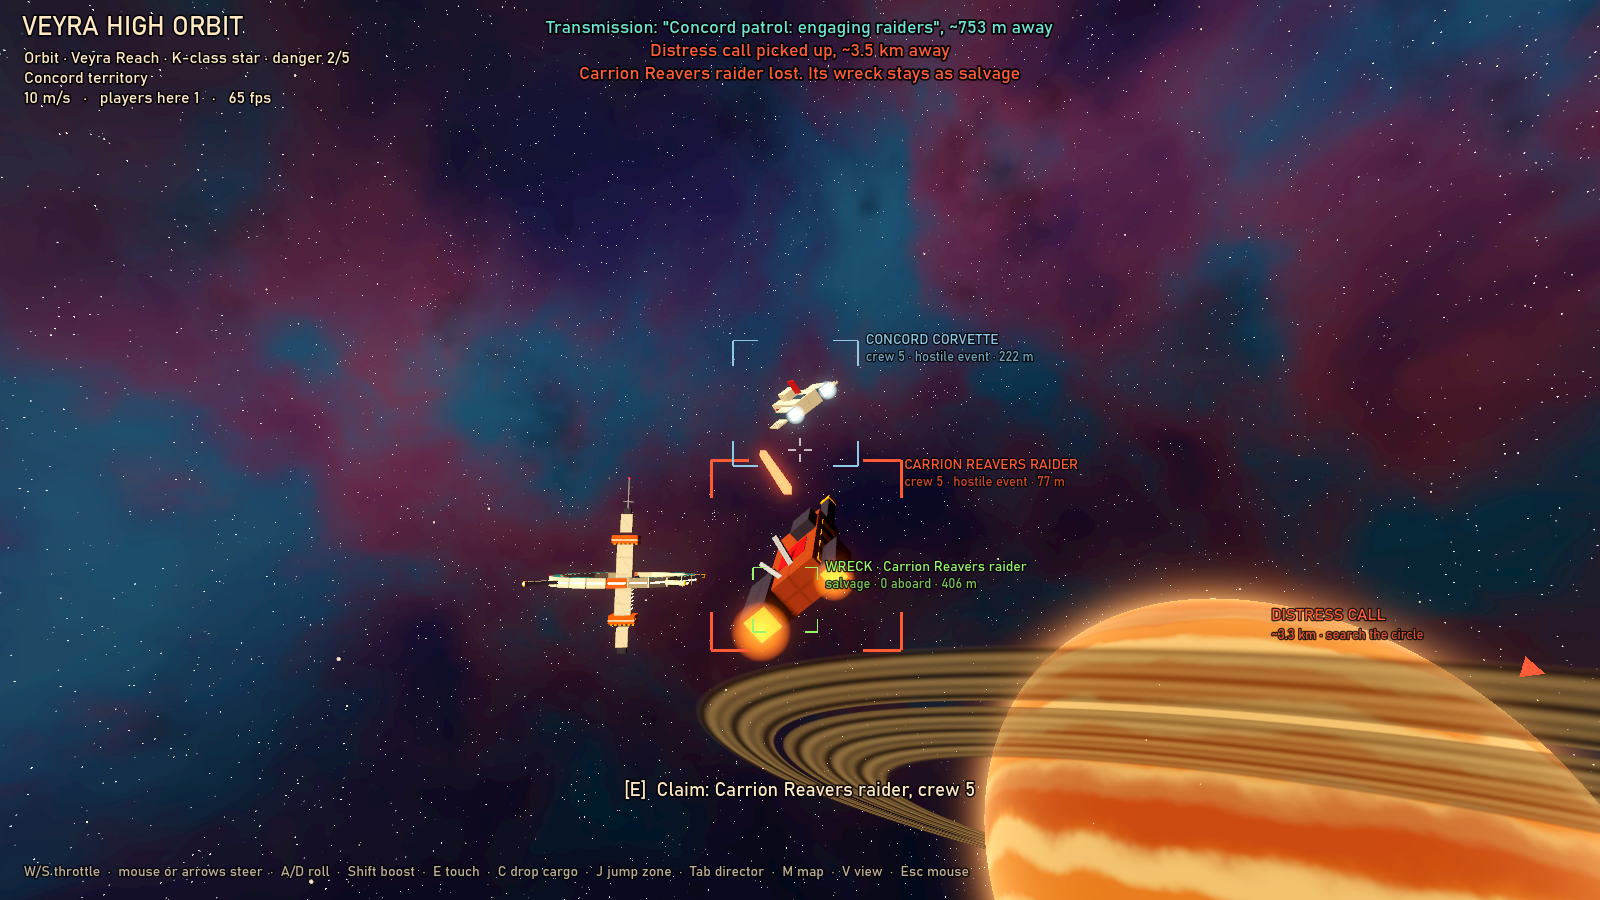
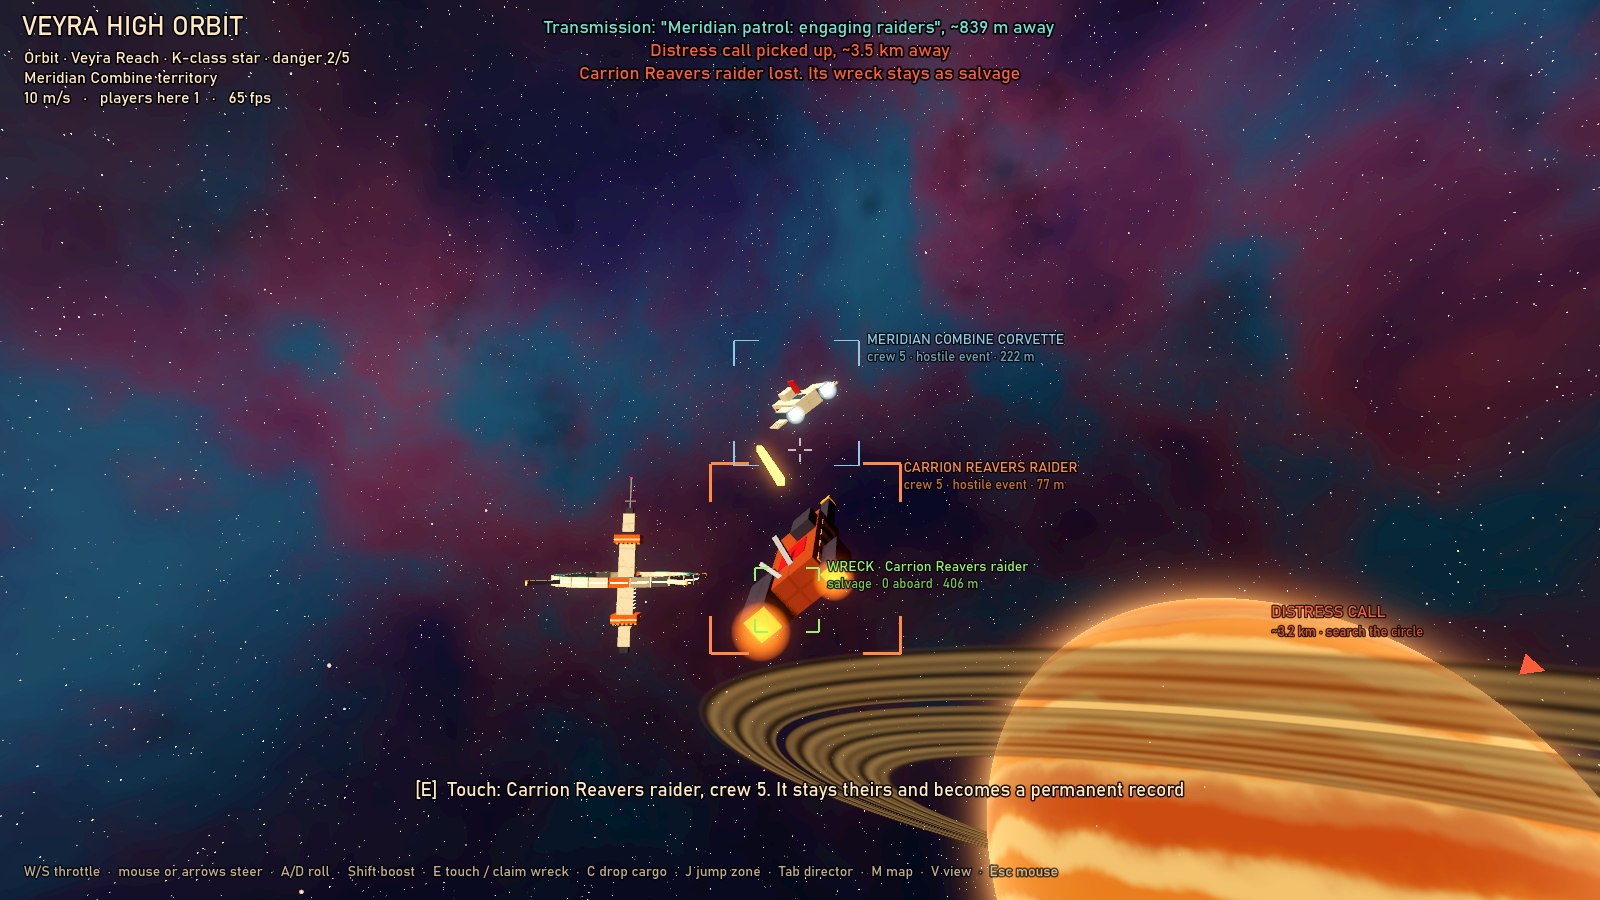
Encounters: refresh screenshots and README for the review fixes
The screenshots now show the design's faction names and the touch prompt.
A new frontier view shows a Vharn capital ship on the march with its
gunship escort. Staged views now tell the director where the player is
before spawning, so staged leads measure from the right place. The README
covers the factions, touch versus claim, PermanentRecords, the export
preset and the new tests.

diff --git a/prototypes/encounters/tests/Screenshot.cs b/prototypes/encounters/tests/Screenshot.cs
@@ -8,7 +8,7 @@ namespace Encounters;
 /// <summary>
 /// Renders one view of the prototype to a PNG and quits. Run windowed (not headless):
 ///   godot --path prototypes/encounters res://tests/Screenshot.tscn -- --view=orbit --out=shot.png
-/// Views: orbit, skirmish, distress, overlay, and jump (presses J and checks the zone changed).
+/// Views: orbit, skirmish, distress, frontier, overlay, and jump (presses J and checks the zone changed).
 ///
 /// Each view stages its events with the director's debug spawn (which skips the spawn rules,
 /// so the camera can be pointed straight at them), then lets the director run normally.
@@ -54,6 +54,7 @@ public partial class Screenshot : Node
             {
                 // A convoy crossing in front of Halcyon Station, traders coming in to dock, and the giant below.
                 _main.Craft.Place(new Vector3(-760, 170, -700), new Vector3(-650, 120, -2500), 60f);
+                Feed(d);
                 d.DebugSpawn("veyra-orbit", "convoy", N(-796, 270, -1233), N(2268, 270, -1046));
                 d.DebugSpawn("veyra-orbit", "traders-dock", N(500, 260, -1600), N(0, 0, -2600));
                 d.DebugSpawn("veyra-orbit", "freighter-pass", N(-2600, 380, -3600), N(2200, 300, -3300));
@@ -62,10 +63,11 @@ public partial class Screenshot : Node
             }
             case "skirmish":
             {
-                // A Concord patrol tangling with Carrion Reavers, close enough to see the tracers.
+                // A Meridian patrol tangling with Carrion Reavers, close enough to see the tracers.
                 // From the cockpit, so the skiff doesn't hide the fight.
                 _main.Craft.Cockpit = true;
                 _main.Craft.Place(new Vector3(-80, 70, 60), new Vector3(150, 10, -330), 10f);
+                Feed(d);
                 Encounter fight = d.DebugSpawn("veyra-orbit", "patrol-vs-reavers", N(110, 30, -280), N(0, 0, 0));
                 // Run the fight on until someone has been shot down, so a wreck is smoking.
                 for (int i = 0; i < 1200 && !fight.Ships.Any(s => s.Wrecked); i++) d.Tick();
@@ -78,9 +80,22 @@ public partial class Screenshot : Node
                 // Out in the Ashen Drift: a distress call a few kilometres off, Kessari miners at work on the rocks.
                 _main.EnterZone("drift-deep");
                 _main.Craft.Place(new Vector3(1000, 150, -2200), new Vector3(1030, 110, -3200), 30f);
+                Feed(d);
                 d.DebugSpawn("drift-deep", "kessari-miners", N(1700, 60, -2900), N(0, 0, 0));
                 d.DebugSpawn("drift-deep", "distress-call", N(-1000, 390, -5640), N(0, 0, 0));
                 FastForward(d, 30);
+                break;
+            }
+            case "frontier":
+            {
+                // The Ashen Drift's Vharn corner: a Dominion capital ship on the march with its escort, and a gunship patrol.
+                _main.EnterZone("drift-deep");
+                // The red dwarf behind the camera lights the ships' near sides.
+                _main.Craft.Place(new Vector3(-7000, 300, -8600), new Vector3(-8640, -260, -7600), 15f);
+                Feed(d);
+                d.DebugSpawn("drift-deep", "vharn-capital", N(-7360, 160, -8268), N(-8910, 160, -10810));
+                d.DebugSpawn("drift-deep", "vharn-patrol", N(-7362, 300, -8505), N(-6825, 240, -10520));
+                FastForward(d, 6);
                 break;
             }
             case "jump":
@@ -95,6 +110,7 @@ public partial class Screenshot : Node
                 // A lived-in orbit: a few minutes of the director left to its own devices, a ship
                 // claimed and a cargo pod dropped, then the Tab overlay and the M map.
                 _main.Craft.Place(new Vector3(0, 40, 600), new Vector3(0, 0, -2600), 0f);
+                Feed(d);
                 FastForward(d, 150);
                 Encounter freighter = d.DebugSpawn("veyra-orbit", "freighter-pass", N(-600, 60, -300), N(800, 0, -900));
                 WorldEntity ship = freighter.Ships[0];
@@ -108,12 +124,16 @@ public partial class Screenshot : Node
         }
     }
 
+    /// <summary>Tells the director where the player is now, so staged events and leads measure from there.</summary>
+    void Feed(EncounterDirector d) =>
+        d.SetPlayer(Main.LocalPlayer, _main.ZoneId, _main.Camera.GlobalPosition.ToNum(), (-_main.Camera.GlobalBasis.Z).ToNum());
+
     /// <summary>Runs the director on by some seconds before the shot, with the player where the camera is.</summary>
     void FastForward(EncounterDirector d, float seconds)
     {
         for (int i = 0; i < seconds * d.Config.TickHz; i++)
         {
-            d.SetPlayer(Main.LocalPlayer, _main.ZoneId, _main.Camera.GlobalPosition.ToNum(), (-_main.Camera.GlobalBasis.Z).ToNum());
+            Feed(d);
             d.Tick();
         }
     }

diff --git a/prototypes/encounters/README.md b/prototypes/encounters/README.md
@@ -3,8 +3,9 @@
 Proves that the galaxy can feel alive without being simulated. An **encounter director** deals small events from a weighted deck into the zones players are in, keeps them out of sight until they are underway, scales them by the players present, and cleans them up when players leave. Only lasting facts outlive a zone: what players own, what they touched, and the wrecks they saw.
 
 ![A convoy crossing in front of Halcyon Station](screenshots/orbit.png)
-![A Concord patrol tangling with Carrion Reavers](screenshots/skirmish.png)
+![A Meridian Combine patrol tangling with Carrion Reavers](screenshots/skirmish.png)
 ![A distress lead over the Kessari mining field](screenshots/distress.png)
+![A Vharn Dominion capital ship on the march, with its gunship escort](screenshots/frontier.png)
 ![The director overlay and map](screenshots/overlay.png)
 
 ## How it works
@@ -19,6 +20,8 @@ Proves that the galaxy can feel alive without being simulated. An **encounter di
 | `deck.json` | The event deck. Each event has a weight, tag conditions, faction and territory rule, hostility, crewed ship groups, scripted behaviour, speed, duration, cleanup rule, wrecks and signal. |
 | `director.json` | Spawn distances and the view cone, budget and category caps, gaps, cooldowns and the no-repeat window, hostile share by danger grade, despawn distances, touch range, and lead fuzz. |
 | `gunnery.json` | A hook for future combat (see below). |
+
+**Factions** are the design document's: the Meridian Combine (corporate fleet; patrols), the Ledger Exchange (neutral merchants; freighters, convoys, traders), the Carrion Reavers (pirates), the Kessari (robot clans; miners), the Hollow Bloom (corruption), the Vharn Dominion (the main enemy; patrols, capital ships and surface garrisons, only in their own territory) and the Freeholders (settlers; haulers and mining skiffs round their outposts). The Ledger Exchange and the Freeholders are marked `"fights": false`: the deck refuses to load a hostile card that uses them, and they never take a side in a border clash.
 
 **Weighing the deck.** At a spot in a zone, tags gate cards in or out (`kind:orbit|kind:deep`, `poi:station`, a danger range). Faction territory then applies:
 - `inside` cards need their faction's territory.
@@ -36,7 +39,9 @@ Nothing pops into view. Each zone instance has its own concurrent budget, scaled
 
 **Ships are crewed and scripted.** Every ship has a crew count; there are no drones. Flights are closed-form functions of time: pass, convoy, dogfight (tail-chasing pairs on tilted circles), dock, mine and drift. The director samples them on its tick, and the renderer samples the same functions every frame, so ships move smoothly without the director ticking faster. When an event's time is up its ships depart. They are removed once no player can see them go, or once every player is far away. A distress call nobody answers is lost and becomes a wreck.
 
-**Lasting records.** The moment a ship becomes lasting, it moves out of its zone instance into the `Ledger`, which has no remove method at all. A ship becomes lasting when a player touches it (E: loot, claim or board), when a player owns it, or when it is wrecked within sight of a player. Cleanup only ever sees a zone instance's transient ships, so it cannot reach anything lasting. As a safety net, the one removal path refuses anything lasting and keeps it instead, counting a "guard trip". When the last player leaves a zone, the zone instance is dropped. Coming back starts fresh events, and the records are still there.
+**Permanent records.** The moment a ship becomes lasting, it moves out of its zone instance into the `PermanentRecords`, which has no remove method at all. A ship becomes lasting when a player touches it, when a player owns it, or when it is wrecked within sight of a player.
+
+Touching never takes a live ship: E on a live ship only marks it as a permanent record, and it stays its crew's. In the design a live ship becomes yours only by boarding it and hijacking its core, which this prototype doesn't have. A wreck's core is destroyed, so E on a wreck claims it as salvage and it becomes yours. The director's `DebugClaim` stands in for boarding in the tests; no game key uses it. Cleanup only ever sees a zone instance's transient ships, so it cannot reach anything lasting. As a safety net, the one removal path refuses anything lasting and keeps it instead, counting a "guard trip". When the last player leaves a zone, the zone instance is dropped. Coming back starts fresh events, and the records are still there.
 
 **Signal leads.** Distress calls and faction transmissions give every player in the zone a lead: the true direction turned by up to 10°, and the true distance scaled by up to ±20%. The HUD shows a dashed search circle and the map shows the lead's uncertainty. Contacts are only bracketed within 2.5 km, so a lead stays a search, not a waypoint. Leads resolve within 700 m.
 
@@ -56,15 +61,15 @@ From the repo root, in PowerShell:
 | W / S | Throttle up or down (it holds when you let go) |
 | A / D | Roll |
 | Shift | Boost |
-| E | Touch the nearest ship within 250 m: loot a wreck, board a disabled ship or hulk, claim anything else. It becomes a lasting record. |
+| E | Touch the nearest ship within 250 m. A live ship becomes a permanent record but stays its crew's; a wreck is claimed as your salvage. |
 | C | Drop a cargo pod. It's yours, so it never goes away. |
 | J | Jump between Veyra orbit and the Ashen Drift, with a fade |
-| Tab | Director overlay: events, deck weights here, budget, caps, cooldowns, leads, lasting records, log |
+| Tab | Director overlay: events, deck weights here, budget, caps, cooldowns, leads, permanent records, log |
 | M | Director map: territories, POIs, no-spawn circles, your view cone and spawn ring, ships, wrecks, records and leads |
 | V | Cockpit or chase camera |
 | Esc | Free the mouse (click to capture it again) |
 
-Fly towards a distress lead's circle and search it. Drop a pod, jump away and come back: it is still there, and so are the wrecks and anything you claimed. Everything you didn't touch has gone.
+Fly towards a distress lead's circle and search it. Drop a pod, jump away and come back: it is still there, and so are the wrecks and anything you touched or claimed. Everything you didn't touch has gone. Holt outpost, 6 km out from Veyra's station, has Freeholders at work; the Ashen Drift's south-west corner is Vharn space.
 
 ## Test it
 
@@ -74,21 +79,26 @@ Fly towards a distress lead's circle and search it. Drop a pod, jump away and co
 
 The tests run `tests/DirectorTest.tscn` headless, on a simulated clock (about 6 s), and exit 0 or 1. They check:
 
-- **Spawn rules under churn.** Over 8,000 spawns and 18,000 ships (seven players in four zones), nothing spawns inside a view cone, nearer than 1.8 km or inside a no-spawn circle. The budget and category caps are never exceeded, and no event type repeats inside its window.
+- **Spawn rules under churn.** Over 8,000 spawns and 18,000 ships (seven players in four zones), nothing spawns inside a view cone, nearer than 1.8 km or inside a no-spawn circle. The budget and category caps are never exceeded, no event type repeats inside its window, and no Ledger Exchange or Freeholder ship ever appears in a hostile event.
 - **Deck weights follow zone tags:**
   - The hostile share matches the danger grade, in the weights and in what spawns.
-  - Kessari miners appear only in Kessari space, and Concord patrols only in Concord space.
+  - Kessari miners appear only in Kessari space, and Meridian patrols only in Meridian space.
   - Reavers are 2.5x as likely at home, and border clashes happen only where territories meet.
   - Unclaimed space has no faction events.
   - Crash sites appear only on surfaces, traders only where there's a station.
+- **The Vharn Dominion and the Freeholders.**
+  - Every Vharn card is hostile and needs Vharn territory. Patrols and capital ships come only in Vharn space, garrisons only on Vharn surfaces. A player in Vharn space meets patrols; a player outside never does.
+  - Every Freeholder card is peaceful and works round an outpost in Freeholder territory. A player at Holt meets them; a player away from it never does.
+  - Reaver and Freeholder territory overlap at Holt, but there is no border clash there. The deck refuses to load a card where Freeholders attack.
 - **No-spawn circles and player bases** are never spawned in, even when they block much of the spawn ring.
-- **Leaving a zone** removes all its untouched ships, and keeps the claimed freighter and the witnessed wrecks as records.
-- **Player-owned things survive.** 32 player-owned things survive 120 zone hops, including crates dropped inside a fight and a ship claimed mid-event. A ship marked owned behind the director's back is caught by the guard.
+- **Leaving a zone** removes all its untouched ships. Touching a live freighter makes it a permanent record but not the player's, and touching a wreck claims it. Both stay, with the witnessed wrecks.
+- **Player-owned things survive.** 32 player-owned things survive 120 zone hops, including crates dropped inside a fight and a ship taken mid-event with the debug claim. A ship touched mid-event stays not theirs. A ship marked owned behind the director's back is caught by the guard.
 - **Determinism.** The same seed and inputs give a byte-identical log; a different seed gives a different one.
 - **Zones and scaling.** Two players in two zones get their own events, and four players in one zone get more events and ships than one.
 - **Leads** are within 10° and 20% across 1,000 distress calls, never exact, and resolve when you arrive.
 - **Tick cost.** Six players in four zones averages about 11 µs per tick, with a maximum under 100 µs, at 10 Hz.
 - **The gunnery hook** follows its rules.
+- **Export.** The export preset includes the data files.
 
 Screenshots render windowed:
 
@@ -98,7 +108,7 @@ dotnet build prototypes\encounters\Encounters.csproj -nologo -v q
 & $GodotEditor --path prototypes/encounters res://tests/Screenshot.tscn -- --view=orbit --out=shot.png
 ```
 
-The views are `orbit`, `skirmish`, `distress` and `overlay`. A fifth, `jump`, presses J and fails unless the zone changed.
+The views are `orbit`, `skirmish`, `distress`, `frontier` and `overlay`. A sixth, `jump`, presses J and fails unless the zone changed.
 
 ## Known limits
 
@@ -107,11 +117,11 @@ The views are `orbit`, `skirmish`, `distress` and `overlay`. A fifth, `jump`, pr
 - **No collisions.** You can fly through ships, rocks and the station. Traders hold beside the station rather than docking.
 - **Ships don't steer.** Flights are kinematic paths, so a departing ship can turn sharply, and wrecks coast for a second, then stay put.
 - **Circles are cylinders.** They are measured on the X/Z plane and reach up and down without limit. The view cone is a 70° cone, not the camera frustum; very wide screens would want it wider (it's in `director.json`).
-- **Salvage piles up.** Records only grow. Wrecks are kept only if seen (within 8 km), but nothing merges or ages salvage yet. There is no save/load: the ledger, its next id and the zone data are what a save would hold.
+- **Salvage piles up.** Records only grow. Wrecks are kept only if seen (within 8 km), but nothing merges or ages salvage yet. There is no save/load: the permanent records, their next id and the zone data are what a save would hold.
 - **Determinism is per machine.** It holds for the same build on the same machine. Float trig can differ across CPUs, which is fine while only the host runs the director, but this is not a lockstep simulation.
 - **The danger mix is approximate under tight caps.** With only two hostile cards in a zone and heavy churn, danger 4 spawns 51% hostile against a 60% target.
 - **No real multiplayer yet.** The scene has one player; networking is not implemented.
 - **The sky costs per pixel.** It runs a 5-octave noise per pixel every frame. Check it on a low-end GPU; it could be baked to a cubemap once per zone.
-- **Exports.** An exported build needs `*.json` in the export filter.
+- **Exports.** `export_presets.cfg` (a Windows preset) includes `*.json`, so the data files ship in the pack. The repo ignores export presets, so this prototype's `.gitignore` re-includes it. Godot 4 keeps export credentials in `.godot/`, not in this file.
 - **No audio.** The prototype is silent.
 - **Debug-style UI.** The HUD, overlay and map are debug-styled, not the diegetic UI.
